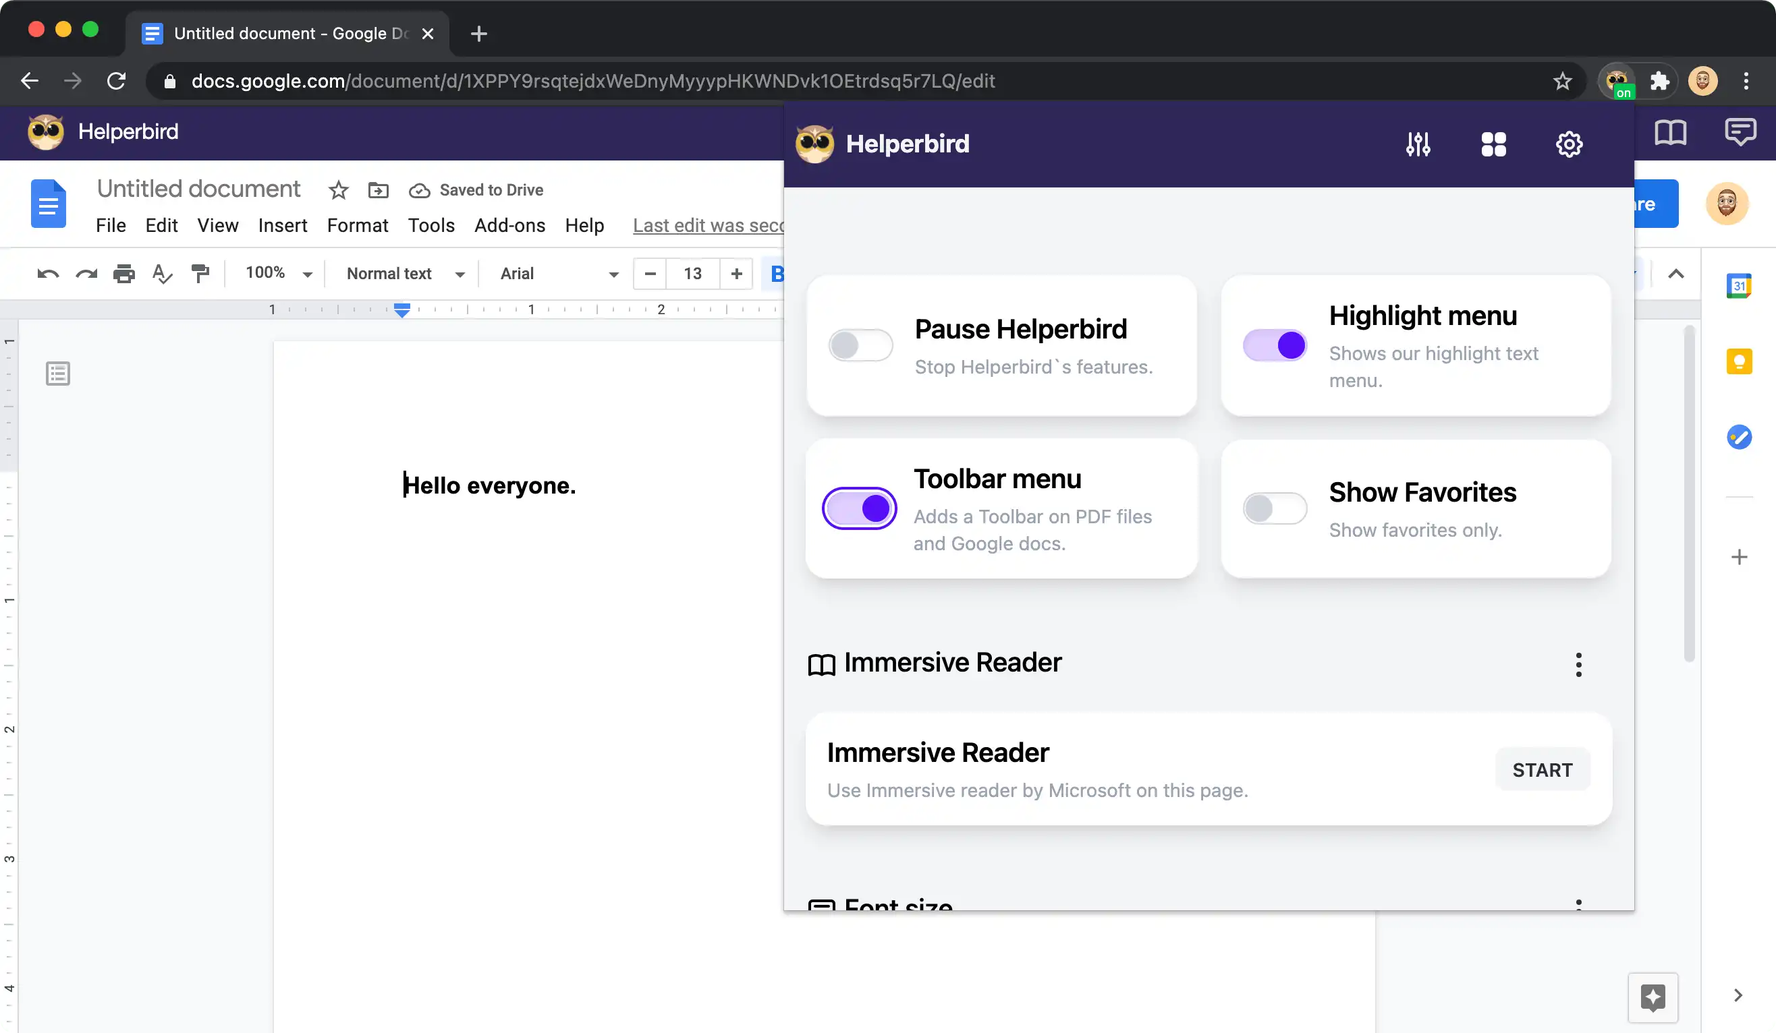
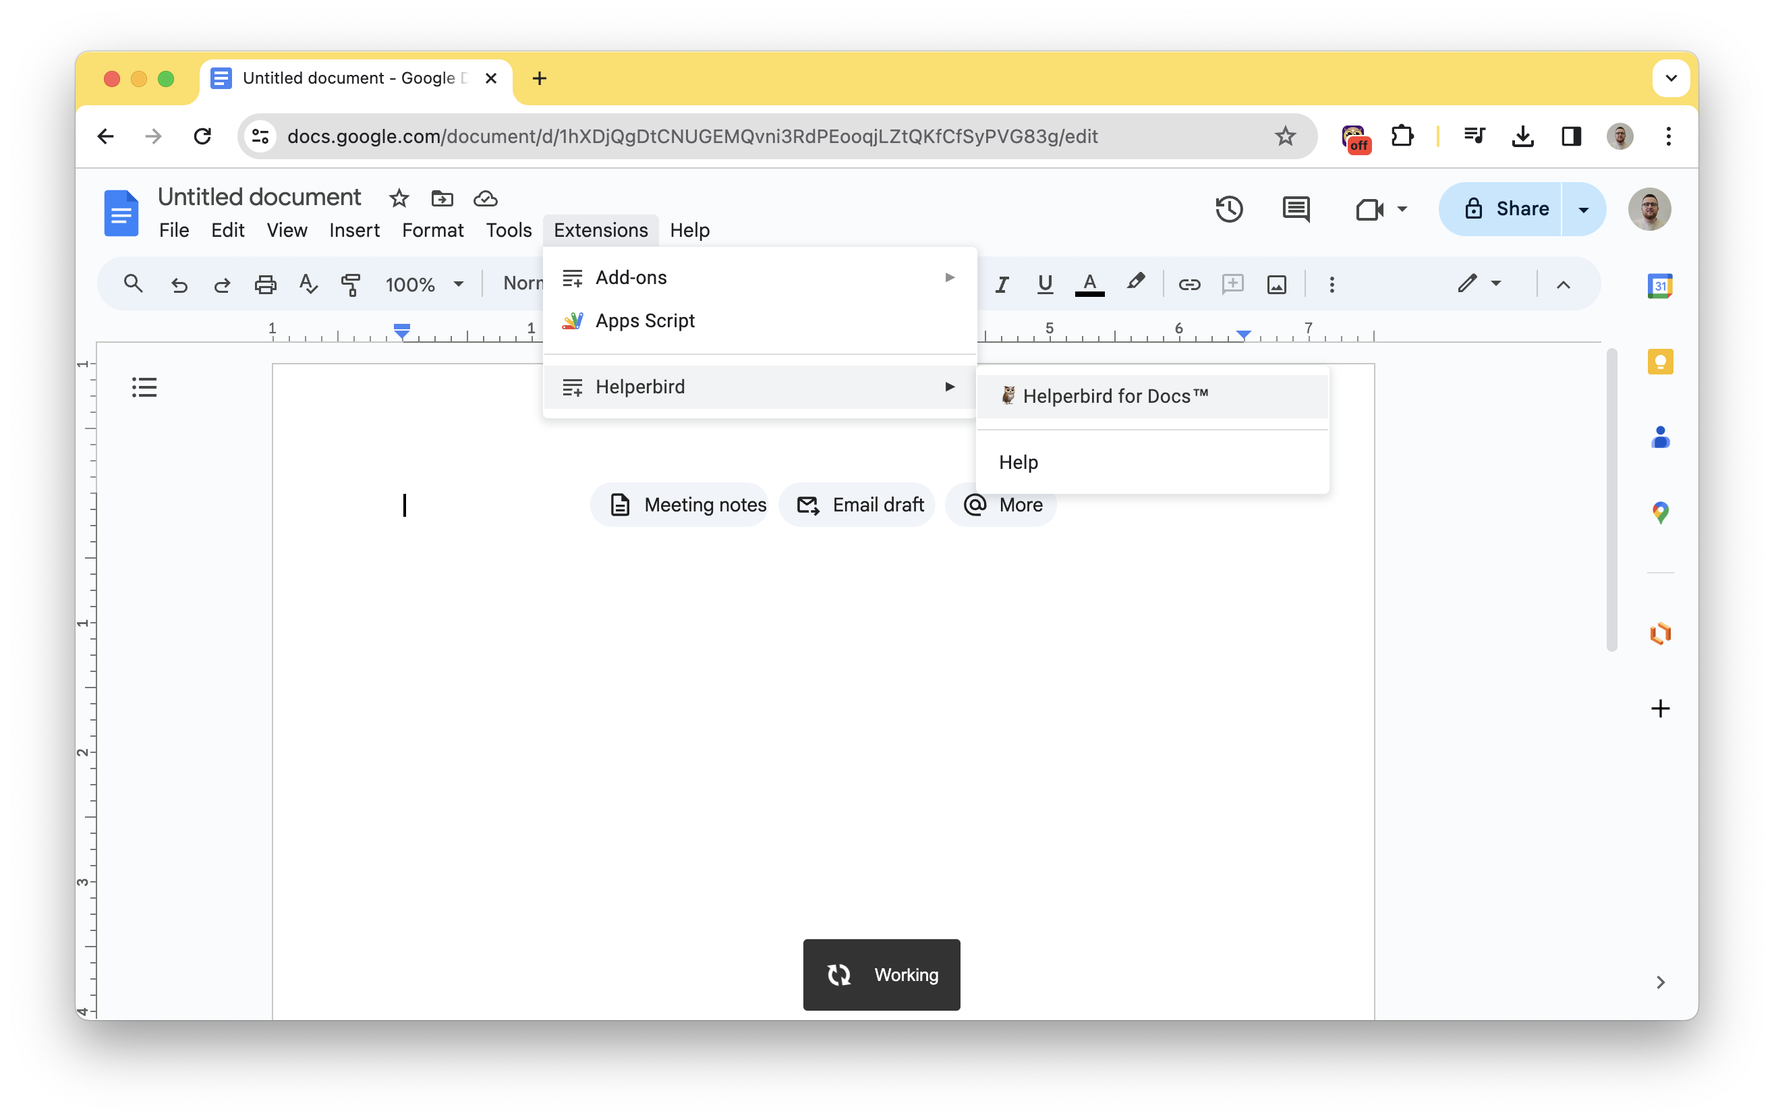
Deploying to gh-pages from  @ 4f1d2911a9700ae9fd52c1c2b8e6e60bdfcd942d 🚀

diff --git a/blog/how-to-use-immersive-reader-in-google-docs/index.html b/blog/how-to-use-immersive-reader-in-google-docs/index.html
@@ -4,7 +4,7 @@
   <head>
     <meta charset="utf-8" />
     <meta content="width=device-width, initial-scale=1.0" name="viewport" />
-    <title>How to Use Immersive Reader in Google Docs, Step-by-Step Guide - Helperbird</title>
+    <title>How to Use Immersive Reader in Google Docs - Helperbird</title>
     <link href="/assets/js/main.css" rel="stylesheet" />
     <script>
       if ("serviceWorker" in navigator) {
@@ -26,7 +26,7 @@
     <meta name="twitter:card" content="summary_large_image">
     <meta name="twitter:site" content="@helperbird">
     <meta name="twitter:creator" content="@robertjgabriel">
-    <meta name="twitter:title" content="How to Use Immersive Reader in Google Docs, Step-by-Step Guide - Helperbird">
+    <meta name="twitter:title" content="How to Use Immersive Reader in Google Docs - Helperbird">
     <meta property="twitter:domain" content="helperbird.com" />
 
     <meta property="twitter:url" content="https://www.helperbird.com/blog/how-to-use-immersive-reader-in-google-docs/" />
@@ -40,7 +40,7 @@
 
 
     <meta property="og:type" content="article">
-    <meta property="og:title" content="How to Use Immersive Reader in Google Docs, Step-by-Step Guide - Helperbird">
+    <meta property="og:title" content="How to Use Immersive Reader in Google Docs - Helperbird">
     <meta property="og:url" content="https://www.helperbird.com/blog/how-to-use-immersive-reader-in-google-docs/">
     <meta property="og:image" content="https://www.helperbird.com/blog/how-to-use-immersive-reader-in-google-docs/index.png" />
     <meta property="og:description" content="Learn how to use Immersive Reader in Google Docs for free. Follow our step-by-step guide to enable and utilize this powerful dyslexia software tool.">
@@ -1797,7 +1797,7 @@
       {
       "@context": "https://schema.org",
                                                                                                                                                                                                                                                                                                                                                                                                                                                         				"@type": "BlogPosting",
-                                                                                                                                                                                                                                                                                                                                                                                                                                                        				"headline": "How to Use Immersive Reader in Google Docs, Step-by-Step Guide",
+                                                                                                                                                                                                                                                                                                                                                                                                                                                        				"headline": "How to Use Immersive Reader in Google Docs",
       "description": "Learn how to use Immersive Reader in Google Docs for free. Follow our step-by-step guide to enable and utilize this powerful dyslexia software tool.",
       "author": {
                                                                                                                                                                                                                                                                                                                                                                                                                                                         					"@type": "Organization",
@@ -2551,8 +2551,8 @@ aria-hidden="true"><g><rect fill="none" height="24" width="24"/></g><g><path d="
                  
                 </div>
                 <div class="flex-0">
-                  <time datetime="May 24th, 2023" class="items-center text-base">
-                    <span class="badge badge-secondary badge-outline">May 24th, 2023</span>
+                  <time datetime="January 24th, 2024" class="items-center text-base">
+                    <span class="badge badge-secondary badge-outline">January 24th, 2024</span>
                   </time>
                 </div>
               </div>
@@ -2566,43 +2566,36 @@ aria-hidden="true"><g><rect fill="none" height="24" width="24"/></g><g><path d="
               
   
 
-                <h3 class="leading-relaxed font-display text-xl text-black mb-2 font-bold mt-10">You can use Immersive reader in Google docs using Helperbird.</h3>
+                <h2 class="leading-relaxed font-display text-2xl text-black mb-4 mt-10 font-extrabold">1. Install the Helperbird Google Docs Addon</h2>
+<p class="leading-relaxed font-display text-black my-6 mb-6 mt-6 text-lg font-display ">If you haven't already you will need to install the <a href="https://www.helperbird.com/products/google-addon/" class="leading-relaxed font-sans text-lg link link-hover text-blue-500 hover:text-blue-700">Helperbird Google Docs &amp; Google Slides Add-on</a>.</p>
+<p class="leading-relaxed font-display text-black my-6 mb-6 mt-6 text-lg font-display ">This can be done by following this link to the <a href="https://workspace.google.com/marketplace/app/helperbird/844716805038" class="leading-relaxed font-sans text-lg link link-hover text-blue-500 hover:text-blue-700">Google Workspace Marketplace</a>.</p>
+<hr>
+<h2 class="leading-relaxed font-display text-2xl text-black mb-4 mt-10 font-extrabold">2. How to Open the Helperbird Addon</h2>
+<p class="leading-relaxed font-display text-black my-6 mb-6 mt-6 text-lg font-display "><img src="/assets/images/blog/how-to-use-immersive-reader-in-google-docs/how-to-turn-on-helperbirds-google-toolbar.png" alt="Screenshot of a Google Docs interface showing the 'Extensions' menu selected, with a submenu visible. The submenu highlights the 'Apps Script' option. On the right side of the screen, a sidebar is open with the 'Helperbird for Docs™' add-on expanded, displaying 'Help' and 'More' as clickable options.&quot;" class="aspect-square rounded-2xl  mb-8"></p>
 <ul class="leading-relaxed list-decimal list-decimal-important list-inside mt-4 space-y-2  pl-6 text-lg font-display ml-6 mb-8 ">
-<li class="leading-relaxed mb-4 mt-4 text-lg font-display ">
-<p class="leading-relaxed font-display text-black my-6 mb-6 mt-6 text-lg font-display ">Today we will walk you through how to to do it.</p>
-</li>
-<li class="leading-relaxed mb-4 mt-4 text-lg font-display ">
-<p class="leading-relaxed font-display text-black my-6 mb-6 mt-6 text-lg font-display ">First, you will need to download Helperbird and install it on your browser.</p>
-</li>
-<li class="leading-relaxed mb-4 mt-4 text-lg font-display ">
-<p class="leading-relaxed font-display text-black my-6 mb-6 mt-6 text-lg font-display ">You can use it on Google Chrome, Mozilla Firefox and Microsoft Edge.</p>
-</li>
-<li class="leading-relaxed mb-4 mt-4 text-lg font-display ">
-<p class="leading-relaxed font-display text-black my-6 mb-6 mt-6 text-lg font-display ">Now that you have it installed, visit your Google docs file.</p>
-</li>
-<li class="leading-relaxed mb-4 mt-4 text-lg font-display ">
-<p class="leading-relaxed font-display text-black my-6 mb-6 mt-6 text-lg font-display ">Once it is open, you will need to turn on the Helperbird Google doc toolbar.</p>
-</li>
+<li class="leading-relaxed mb-4 mt-4 text-lg font-display ">Go to the <strong class="text-black text-base text-lg">Extensions</strong> menu at the top of the Google Docs.</li>
+<li class="leading-relaxed mb-4 mt-4 text-lg font-display ">In the dropdown menu, navigate to <strong class="text-black text-base text-lg">Helperbird</strong>.</li>
+<li class="leading-relaxed mb-4 mt-4 text-lg font-display ">Click on <strong class="text-black text-base text-lg">Helperbird for Docs™</strong> to expand it if it's not already expanded.</li>
+<li class="leading-relaxed mb-4 mt-4 text-lg font-display ">Within the expanded 'Helperbird for Docs™' section, you can then click on 'Help' or any other available options to interact with the addon as needed.</li>
 </ul>
-<p class="leading-relaxed font-display text-black my-6 mb-6 mt-6 text-lg font-display "><img src="/assets/images/blog/how-to-use-immersive-reader-in-google-docs/how-to-turn-on-helperbirds-google-toolbar.png" alt="Step one of how to use immersive reader in Google docs" class="aspect-square rounded-2xl  mb-8"></p>
-<p class="leading-relaxed font-display text-black my-6 mb-6 mt-6 text-lg font-display ">Step one of how to use immersive reader in Google docs</p>
+<hr>
+<h2 class="leading-relaxed font-display text-2xl text-black mb-4 mt-10 font-extrabold">3. Using Immersive Reader in Google Docs</h2>
 <ul class="leading-relaxed list-decimal list-decimal-important list-inside mt-4 space-y-2  pl-6 text-lg font-display ml-6 mb-8 ">
-<li class="leading-relaxed mb-4 mt-4 text-lg font-display ">
-<p class="leading-relaxed font-display text-black my-6 mb-6 mt-6 text-lg font-display ">Now you should see the toolbar along the top of your Google docs file.</p>
-</li>
-<li class="leading-relaxed mb-4 mt-4 text-lg font-display ">
-<p class="leading-relaxed font-display text-black my-6 mb-6 mt-6 text-lg font-display ">Excellent, so next highlight the text you want to use in Immersive reader.</p>
-</li>
+<li class="leading-relaxed mb-4 mt-4 text-lg font-display ">Now that Helperbird Google Docs add-on is open.</li>
+<li class="leading-relaxed mb-4 mt-4 text-lg font-display ">Highlight the text in your document that you want the Immersive Reader to read.</li>
+<li class="leading-relaxed mb-4 mt-4 text-lg font-display ">Look at the Helperbird sidebar on the right side of your screen.</li>
+<li class="leading-relaxed mb-4 mt-4 text-lg font-display ">In the <strong class="text-black text-base text-lg">Quick actions</strong> section of the Helperbird sidebar, find the <strong class="text-black text-base text-lg">Use immersive reader</strong> button, which is represented by an icon with a book and a speaker.</li>
+<li class="leading-relaxed mb-4 mt-4 text-lg font-display ">Click on the 'Use immersive reader' icon to activate the Immersive reader for the selected text.</li>
 </ul>
-<p class="leading-relaxed font-display text-black my-6 mb-6 mt-6 text-lg font-display "><img src="/assets/images/blog/how-to-use-immersive-reader-in-google-docs/highlight-the-text-in-google-docs-to-use-immersive-reader.png" alt="Highlight the text you want to use in Immersive reader." class="aspect-square rounded-2xl  mb-8"></p>
-<p class="leading-relaxed font-display text-black my-6 mb-6 mt-6 text-lg font-display ">Highlight the text you want to use in Immersive reader.</p>
-<p class="leading-relaxed font-display text-black my-6 mb-6 mt-6 text-lg font-display ">Now in the toolbar, click the first book icon; immersive reader will begin to load using the text
-you highlighted.</p>
-<p class="leading-relaxed font-display text-black my-6 mb-6 mt-6 text-lg font-display "><img src="/assets/images/blog/how-to-use-immersive-reader-in-google-docs/immersive-reader-loading-in-google-docs.png" alt="Click the first book icon in the toolbar to load immersive reader." class="aspect-square rounded-2xl  mb-8"></p>
-<p class="leading-relaxed font-display text-black my-6 mb-6 mt-6 text-lg font-display ">Click the first book icon in the toolbar to load immersive reader.</p>
+<p class="leading-relaxed font-display text-black my-6 mb-6 mt-6 text-lg font-display "><img src="/assets/images/blog/how-to-use-immersive-reader-in-google-docs/highlight-the-text-in-google-docs-to-use-immersive-reader.png" alt="Screenshot of an open Google Docs document with a block of text selected. On the right side, the 'Helperbird for Docs™' sidebar is displayed with a section titled 'Quick actions'. Under 'Quick actions', there are various tool options, including the highlighted 'Use immersive reader' button, which features an icon with a book and a speaker. Other tool icons are also visible, such as text-to-speech and font adjustment options." class="aspect-square rounded-2xl  mb-8"></p>
+<hr>
+<h2 class="leading-relaxed font-display text-2xl text-black mb-4 mt-10 font-extrabold">4. Immersive Reader is open</h2>
 <ul class="leading-relaxed list-decimal list-decimal-important list-inside mt-4 space-y-2  pl-6 text-lg font-display ml-6 mb-8 ">
-<li class="leading-relaxed mb-4 mt-4 text-lg font-display ">Now that's how you use the immersive reader in Google docs.</li>
+<li class="leading-relaxed mb-4 mt-4 text-lg font-display ">The selected text will now appear in the <strong class="text-black text-base text-lg">Immersive Reader</strong> within the Helperbird sidebar.</li>
+<li class="leading-relaxed mb-4 mt-4 text-lg font-display ">You can customize your reading experience using the options available at the top of the Immersive Reader.</li>
+<li class="leading-relaxed mb-4 mt-4 text-lg font-display ">To begin listening to the text being read aloud, click the <strong class="text-black text-base text-lg">Play</strong> button at the bottom of the Immersive Reader panel.</li>
 </ul>
+<p class="leading-relaxed font-display text-black my-6 mb-6 mt-6 text-lg font-display "><img src="/assets/images/blog/how-to-use-immersive-reader-in-google-docs/immersive-reader-loading-in-google-docs.png" alt="Screenshot of the Helperbird add-on's 'Immersive Reader' feature activated within Google Docs. The document text 'Mr. Dursley' is magnified in a separate overlay to the right, with each word enlarged and individually highlighted. Below the magnified text, there's a 'Play' button indicating the start of the text-to-speech function. The Helperbird sidebar is visible, showing the 'Immersive Reader' header and the text magnification feature in use." class="aspect-square rounded-2xl  mb-8"></p>
 
               </div>
 

diff --git a/blog/index.html b/blog/index.html
@@ -2474,6 +2474,26 @@ aria-hidden="true"><g><rect fill="none" height="24" width="24"/></g><g><path d="
 
     <div class="card bg-white rounded-xl overflow-hidden flex flex-col">
       <figure class="p-4">
+          <img src="/assets/images/blog/how-to-use-immersive-reader-in-google-docs/how-to-turn-on-helperbirds-google-toolbar.png" alt="How to Use Immersive Reader in Google Docs, Step-by-Step Guide"
+               class="aspect-[16/9] w-full rounded-xl bg-gray-100 object-cover sm:aspect-[2/1] lg:aspect-[3/2]" />
+      </figure>
+      <div class="card-body tw-p-4 flex flex-col flex-grow">
+          <h3 class="card-title font-bold">How to Use Immersive Reader in Google Docs, Step-by-Step Guide</h3>
+          <div class="badge badge-secondary">Guide</div>
+          <div class="badge badge-primary">January 24th, 2024</div>
+          <p class="my-6 text-base text-black overflow-hidden line-clamp-3 mb-4 mt-4">Learn how to use Immersive Reader in Google Docs for free. Follow our step-by-step guide to enable and utilize this powerful dyslexia software tool.</p>
+    
+              <div class="card-actions justify-end mt-4">
+                  <a href="/blog/how-to-use-immersive-reader-in-google-docs/" title="How to Use Immersive Reader in Google Docs, Step-by-Step Guide"
+                     class="link link-hover text-blue-500 hover:text-blue-700">Read blog</a>
+              </div>
+   
+      </div>
+  </div>
+
+
+    <div class="card bg-white rounded-xl overflow-hidden flex flex-col">
+      <figure class="p-4">
           <img src="/assets/images/blog/positive/GOODDAY-01.png" alt="How Positive Thoughts Might Benefit Dyslexic Students"
                class="aspect-[16/9] w-full rounded-xl bg-gray-100 object-cover sm:aspect-[2/1] lg:aspect-[3/2]" />
       </figure>
@@ -2585,26 +2605,6 @@ aria-hidden="true"><g><rect fill="none" height="24" width="24"/></g><g><path d="
     
               <div class="card-actions justify-end mt-4">
                   <a href="/blog/importance-dyslexia-friendly-design-websites-apps/" title="Creating an Inclusive Online Experience, The Importance of Dyslexia-Friendly Design"
-                     class="link link-hover text-blue-500 hover:text-blue-700">Read blog</a>
-              </div>
-   
-      </div>
-  </div>
-
-
-    <div class="card bg-white rounded-xl overflow-hidden flex flex-col">
-      <figure class="p-4">
-          <img src="/assets/images/blog/how-to-use-immersive-reader-in-google-docs/how-to-turn-on-helperbirds-google-toolbar.png" alt="How to Use Immersive Reader in Google Docs, Step-by-Step Guide"
-               class="aspect-[16/9] w-full rounded-xl bg-gray-100 object-cover sm:aspect-[2/1] lg:aspect-[3/2]" />
-      </figure>
-      <div class="card-body tw-p-4 flex flex-col flex-grow">
-          <h3 class="card-title font-bold">How to Use Immersive Reader in Google Docs, Step-by-Step Guide</h3>
-          <div class="badge badge-secondary">Guide</div>
-          <div class="badge badge-primary">May 24th, 2023</div>
-          <p class="my-6 text-base text-black overflow-hidden line-clamp-3 mb-4 mt-4">Learn how to use Immersive Reader in Google Docs for free. Follow our step-by-step guide to enable and utilize this powerful dyslexia software tool.</p>
-    
-              <div class="card-actions justify-end mt-4">
-                  <a href="/blog/how-to-use-immersive-reader-in-google-docs/" title="How to Use Immersive Reader in Google Docs, Step-by-Step Guide"
                      class="link link-hover text-blue-500 hover:text-blue-700">Read blog</a>
               </div>
    

diff --git a/sitemap/index.html b/sitemap/index.html
@@ -4781,30 +4781,6 @@ aria-hidden="true"><g><rect fill="none" height="24" width="24"/></g><g><path d="
 
           <div>
 
-          <a href="/blog/how-to-use-immersive-reader-in-google-docs/" class="leading-relaxed font-sans text-blue-600 hover:decoration-wavy hover:underline text-xl font-bold" title="How to Use Immersive Reader in Google Docs, Step-by-Step Guide">
-            How to Use Immersive Reader in Google Docs, Step-by-Step Guide
-          </a>
-          
-
-
-            <p class="leading-relaxed font-sans  mt-5  text-base text-black mb-5 line-clamp-3">
-              Learn how to use Immersive Reader in Google Docs for free. Follow our step-by-step guide to enable and utilize this powerful dyslexia software tool.
-            </p>
-
-
-            <div class="mt-3">
-              <a
-                href="/blog/how-to-use-immersive-reader-in-google-docs/"
-                title="How to Use Immersive Reader in Google Docs, Step-by-Step Guide"
-                class="btn-sm btn-outline btn  rounded-xl shadow-md ">
-                Visit
-              </a>
-            </div>
-          </div>
-
-
-          <div>
-
           <a href="/blog/importance-dyslexia-friendly-design-websites-apps/" class="leading-relaxed font-sans text-blue-600 hover:decoration-wavy hover:underline text-xl font-bold" title="Creating an Inclusive Online Experience, The Importance of Dyslexia-Friendly Design">
             Creating an Inclusive Online Experience, The Importance of Dyslexia-Friendly Design
           </a>
@@ -5228,6 +5204,30 @@ aria-hidden="true"><g><rect fill="none" height="24" width="24"/></g><g><path d="
               <a
                 href="/blog/positive-thoughts-might-benefit-dyslexic-students/"
                 title="How Positive Thoughts Might Benefit Dyslexic Students"
+                class="btn-sm btn-outline btn  rounded-xl shadow-md ">
+                Visit
+              </a>
+            </div>
+          </div>
+
+
+          <div>
+
+          <a href="/blog/how-to-use-immersive-reader-in-google-docs/" class="leading-relaxed font-sans text-blue-600 hover:decoration-wavy hover:underline text-xl font-bold" title="How to Use Immersive Reader in Google Docs">
+            How to Use Immersive Reader in Google Docs
+          </a>
+          
+
+
+            <p class="leading-relaxed font-sans  mt-5  text-base text-black mb-5 line-clamp-3">
+              Learn how to use Immersive Reader in Google Docs for free. Follow our step-by-step guide to enable and utilize this powerful dyslexia software tool.
+            </p>
+
+
+            <div class="mt-3">
+              <a
+                href="/blog/how-to-use-immersive-reader-in-google-docs/"
+                title="How to Use Immersive Reader in Google Docs"
                 class="btn-sm btn-outline btn  rounded-xl shadow-md ">
                 Visit
               </a>

diff --git a/service-worker.js b/service-worker.js
@@ -192,15 +192,19 @@ self.__precacheManifest = [
   },
   {
     "url": "assets/images/blog/how-to-use-immersive-reader-in-google-docs/highlight-the-text-in-google-docs-to-use-immersive-reader.png",
-    "revision": "d4feea127680ec3423e8d96eb214ca5b"
+    "revision": "d702e9b1c4509d622a884e3305c87318"
   },
   {
     "url": "assets/images/blog/how-to-use-immersive-reader-in-google-docs/how-to-turn-on-helperbirds-google-toolbar.png",
-    "revision": "1b402b9cdb3bed51128abb621566f7d7"
+    "revision": "8f54bc47a1c4ffae61de3ce4612413dd"
   },
   {
     "url": "assets/images/blog/how-to-use-immersive-reader-in-google-docs/immersive-reader-loading-in-google-docs.png",
-    "revision": "0f9bf5412758d71f41c9b963c6bfe639"
+    "revision": "12e0962df1aa1ed8944b61f2feeb90a0"
+  },
+  {
+    "url": "assets/images/blog/how-to-use-immersive-reader-in-google-docs/Screenshot 2024-02-01 at 11.52.18 PM.png",
+    "revision": "12e0962df1aa1ed8944b61f2feeb90a0"
   },
   {
     "url": "assets/images/blog/immersive-reader-marketing-alexs-story/immersive-reader.png",
@@ -1508,7 +1512,7 @@ self.__precacheManifest = [
   },
   {
     "url": "blog/how-to-use-immersive-reader-in-google-docs/index.html",
-    "revision": "09ef0dfb42f6a3a03f5f367e6fed51e3"
+    "revision": "5ccf533ed50a0994b17df6cf708fbb80"
   },
   {
     "url": "blog/how-to-use-immersive-reader-in-google-docs/index.png",
@@ -1524,7 +1528,7 @@ self.__precacheManifest = [
   },
   {
     "url": "blog/index.html",
-    "revision": "0ea700a3ea950bf7ad5ea7cc44713c8d"
+    "revision": "2ebe49bcd392f3ad419d611144f47e5f"
   },
   {
     "url": "blog/index.png",
@@ -3056,7 +3060,7 @@ self.__precacheManifest = [
   },
   {
     "url": "sitemap/index.html",
-    "revision": "181b51f31c6e41668ec25890b51db481"
+    "revision": "c501fcf328e0a47ee2a9d517aa0cf639"
   },
   {
     "url": "sitemap/index.png",
